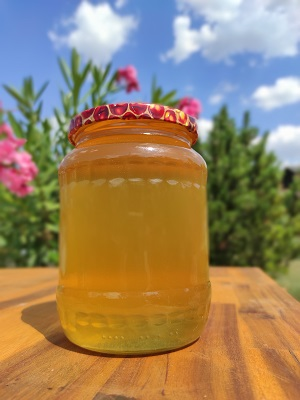
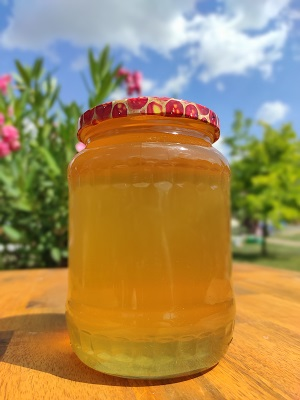
main page uprgade_3 - 1.0 version

diff --git a/styles/style.css b/styles/style.css
@@ -20,21 +20,45 @@
 h1::selection, h2::selection, h3::selection, h4::selection, h5::selection, h6::selection, p::selection, a::selection, li::selection {
     color: var(--clr6); background-color: rgba(255, 255, 255, .4);}
 body {
-    margin: 0; padding: 0;
+    margin: 0; padding: 0;background-color: var(--clr1);
 }
+/* section */
+.info {
+    position: relative;
+    background-color: var(--clr1);
+    margin: 40px 40px;
+}
+.info h1, .info  h2, .info h3, .info h4, .info h5, .info h6, .info p,.info a,.info li { font-size: 24px; color: var(--clr6); text-align: center;}
+.info h1 {font-size: 2.5em;}
+.info .info-list li, .info .info-list p  { 
+    text-align: left;
+}
+.info h1::selection,.info  h2::selection,.info  h3::selection,.info  h4::selection,.info  h5::selection,.info  h6::selection,.info  p::selection,.info  a::selection,.info  li::selection {
+    color: var(--clr10); background-color: var(--clr6);}
+.info .info-list {
+    display: block;
+    position: relative;
+    left: 50%;transform: translateX(-20vw);}
+.info .iframe-border { 
+    display: block;
+    width: min-content;
+    position: relative;
+    left: 50%;transform: translateX(-20vw); border: 3px solid var(--clr6);}
+/* section end*/
 
+/*.starting-section - HEADER - NAVIGATION */
 .starting-section {
     background-image: var(--header-img);
     background-position: center;
-    background-size: cover;
-    background-repeat: no-repeat;
+    background-size: contain;
+    background-repeat: repeat;
     background-attachment: fixed;
     animation: turn_up_bg 1.2s ease-out 0s 1 normal;
 }
 .starting-section > nav {
     position: relative;
     min-height: 840px;
-    height: 98vh;
+    height: 90vh;
     backdrop-filter: blur(0px);
     background-color: rgba(0, 0, 0, .6); 
 }
@@ -66,13 +90,18 @@ body {
     padding: .5em .5em;
     margin: 0 0;
 }
+@media only screen and (max-width: 1000px) { 
+    .starting-section 
+    {background-position: top;
+        background-size: cover;
+        background-repeat: repeat;}
+}
 @media only screen and (max-width: 768px) {
     .starting-section > nav { height: 80vh; }
     .starting-section > nav > ul li {float: none; }
     .starting-section > nav > ul a {font-size: 40px; }
     .starting-section > nav > h1 { font-size: 80px; }
 }
-   
 .starting-section > nav > ul a {
     filter:opacity( 1);
     font-size: 28px;
@@ -87,25 +116,11 @@ body {
 .starting-section > nav > ul li:hover {
     color: var(--clr6);
     border-radius: 4px;
-}/*
-.starting-section > ul li:hover::before{
-    content: "";
-    display: inline-block;
-    z-index: -1;
-    position: absolute; left: -0.25em; top: -8.5em;
-    width: 105%; height: 20em;
-    background: conic-gradient(var(--clr1),transparent) ;
-    animation: spinning 4s linear infinite;}
-.starting-section > ul li:hover::after {
-    content: "";
-    z-index: -1;
-    position: absolute;
-    inset: 2px;
-    border-radius: 4px;
-    background: var(--clr1);
-}*/
+}
 .starting-section > nav > ul li:hover > a { color: var(--clr6);}
 .starting-section > nav a:active { color: var(--clr4) !important;}
+
+/*.starting-section end*/
 
 footer {
     background-color: var(--clr6);

diff --git a/styles/animations.css b/styles/animations.css
@@ -1,3 +1,18 @@
+:root {
+    --clr1: #F2F2F2; /*clr 1.*/
+    --clr2: #591F0A;
+    --clr3: #A69576;
+    --clr4: #5C6373;
+    --clr5: #261008;
+    --clr6: #262526; /*clr 2.*/
+    --clr7: #B0C6D9;
+    --clr8: #719ED9;
+    --clr9: #D99518;
+    --clr10: #f19500; /*clr 3.*/
+    --header-img: url('../images/header.jpg');
+    --section-edge-size: 220px;
+    --card-border-radius: 6px;
+}
 
 @keyframes animText {
     0% {
@@ -57,6 +72,9 @@
 @keyframes card_title {
     0% { transform:translateX(30%);}
     50% { transform:translateX(0);  background-color: transparent;}
-    60% { transform:translateX(0);  background-color: white;}
-    100% { transform:translateX(0); background-color: white;border-radius: 0 0 var(--card-border-radius) var(--card-border-radius);}
+    60% { transform:translateX(0);  background-color: var(--clr6);}
+    100% { transform:translateX(0); background-color: var(--clr6);
+        border-radius: 0 0 var(--card-border-radius) var(--card-border-radius);
+        border: 3px solid var(--clr10);
+    }
 }

diff --git a/styles/card.css b/styles/card.css
@@ -19,7 +19,7 @@
     align-items: center;
     justify-content: center;
     flex-flow: row wrap;
-    margin: 10em 5em;
+    margin: 3em 5em;
     overflow: visible;
     gap: 8em 10em;
     min-height: 70vh;
@@ -68,9 +68,9 @@
     background: transparent;
     color: var(--clr1);
 }
-.card h1, .card p {  background-color: transparent;}
+.card h1, .card p {  background-color: transparent; text-shadow: 2px 2px 4px var(--clr6);}
 .card h1 {font-size: 24px; transition: .2s linear;} .card p {font-size: 16px; transition: .2s linear;}
-.card:hover h1 {font-size: 24px;} .card:hover p {font-size: 16px;}
+.card:hover h1 {font-size: 24px; } .card:hover p {font-size: 16px;}
 .card:hover h1, .card:hover p {
     color: var(--clr10);
 }

diff --git a/main.php b/main.php
@@ -2,37 +2,48 @@
 $_PAGE_NAME = "Magyar Termelői Méz"; # így helyesen vagn írva???
 $_TITLE = "Mézeink"; 
 $page_number = 1;
+
+$mez1_name = "Akác";
+$mez2_name = "Repce";
+$mez3_name = "Napraforgó";
+$mez4_name = "Vegyes virág";
+
+$mez1_price = 3000;
+$mez2_price = 2500;
+$mez3_price = 2500;
+$mez4_price = 2500;
+
 require_once "modules/header.php";
 ?>
 
 	<section class="first-section">
 		<div class="cards">
 			<div class="card">
-				<img src="images\honey\IMG_20220704_145412.jpg" alt="méz">
+				<img src="images\honey\akac.jpg" alt="méz">
 				<div class="content">
 					<h1><?php echo $mez1_name; ?></h1>
-					<p>3000 Ft/kg</p>					
+					<p><?php echo (string)$mez1_price; ?> Ft/kg</p>					
 				</div>
 			</div>
 			<div class="card">
-				<img src="images\honey\IMG_20220704_145420.jpg" alt="méz">
+				<img src="images\honey\repce.jpg" alt="méz">
 				<div class="content">
-					<h1><?php echo $mez1_name; ?></h1>
-					<p>3000 Ft/kg</p>					
+					<h1><?php echo $mez2_name; ?></h1>
+					<p><?php echo (string)$mez2_price; ?> Ft/kg</p>					
 				</div>
 			</div>
 			<div class="card">
-				<img src="images\honey\IMG_20220704_150130.jpg" alt="méz">
+				<img src="images\honey\napraforgo.jpg" alt="méz">
 				<div class="content">
-					<h1><?php echo $mez1_name; ?></h1>
-					<p>3000 Ft/kg</p>					
+					<h1><?php echo $mez3_name; ?></h1>
+					<p><?php echo (string)$mez3_price; ?> Ft/kg</p>					
 				</div>
 			</div>
 			<div class="card">
-				<img src="images\honey\IMG_20220704_150320.jpg" alt="méz">
+				<img src="images\honey\vegyes_virag.jpg" alt="méz">
 				<div class="content">
-					<h1><?php echo $mez1_name; ?></h1>
-					<p>3000 Ft/kg</p>					
+					<h1><?php echo $mez4_name; ?></h1>
+					<p><?php echo (string)$mez4_price; ?> Ft/kg</p>					
 				</div>
 			</div>
 		</div>

diff --git a/info.php b/info.php
@@ -1,0 +1,23 @@
+<?php
+$_PAGE_NAME = "Magyar Termelői Méz"; # így helyesen vagn írva???
+$_TITLE = "Információk"; 
+$page_number = 2;
+require_once "modules/header.php";
+?>
+
+	<section class="info">
+		<h1>Üdvözöljük a családi méhészetünk weboldalán!</h1>
+		<p>Ha mézet szeretne vásárolni, hívjon fel telefonon vagy keressen meg minket email-ben! </p>
+		<div class="info-list">
+			<p>Elérhetőség: </p>
+			<ul>
+				<li>telefon szám: +36 30 621 2193</li>
+				<li>email cím: karcsiq@gmail.com</li>
+			</ul>
+		</div>
+		<div class="iframe-border">
+			<iframe src="https://www.google.com/maps/embed?pb=!1m18!1m12!1m3!1d692.8768529491404!2d18.20752600000001!3d46.001063663426265!2m3!1f0!2f0!3f0!3m2!1i1024!2i768!4f13.1!3m3!1m2!1s0x4742b31594575d4d%3A0xcde7d203d9e479f7!2zS8O2a8OpbnksIFBldMWRZmkgdS4gMTEsIDc2Mzk!5e0!3m2!1shu!2shu!4v1657141572844!5m2!1shu!2shu" width="600" height="450" style="border:0;" allowfullscreen="" loading="lazy" referrerpolicy="no-referrer-when-downgrade"></iframe>
+		</div>
+			</section>
+
+<?php require_once "modules/footer.php"; ?>

diff --git a/modules/header.php b/modules/header.php
@@ -1,9 +1,17 @@
 <!DOCTYPE html>
 
 <?php
-$mez1_name = "Akác méz";
 $id_active = 'id="active"';
 if (!$page_number) $page_number = 0;
+
+
+// counting visits
+
+$file = fopen("visits.txt", "w");
+session_start();
+$_SESSION['visit_number'] = $_SESSION['visit_number'] + 1;
+$count = $_SESSION['visit_number'];
+fwrite($file,$count);
 ?>
 
 <html lang="hu">
@@ -27,7 +35,7 @@ if (!$page_number) $page_number = 0;
 			<h1><?php echo $_PAGE_NAME; ?></h1>
 			<ul class="nav_links">
 				<li><a href="main.php"	<?php if($page_number == 1) echo $id_active; ?>>Mézeink</a></li>
-				<li><a href="meheszet.php" <?php if($page_number == 2) echo $id_active; ?>>Méhészet</a></li>
+				<li><a href="info.php" <?php if($page_number == 2) echo $id_active; ?>>Információk</a></li>
 			</ul>
 		</nav>
 	</div>
